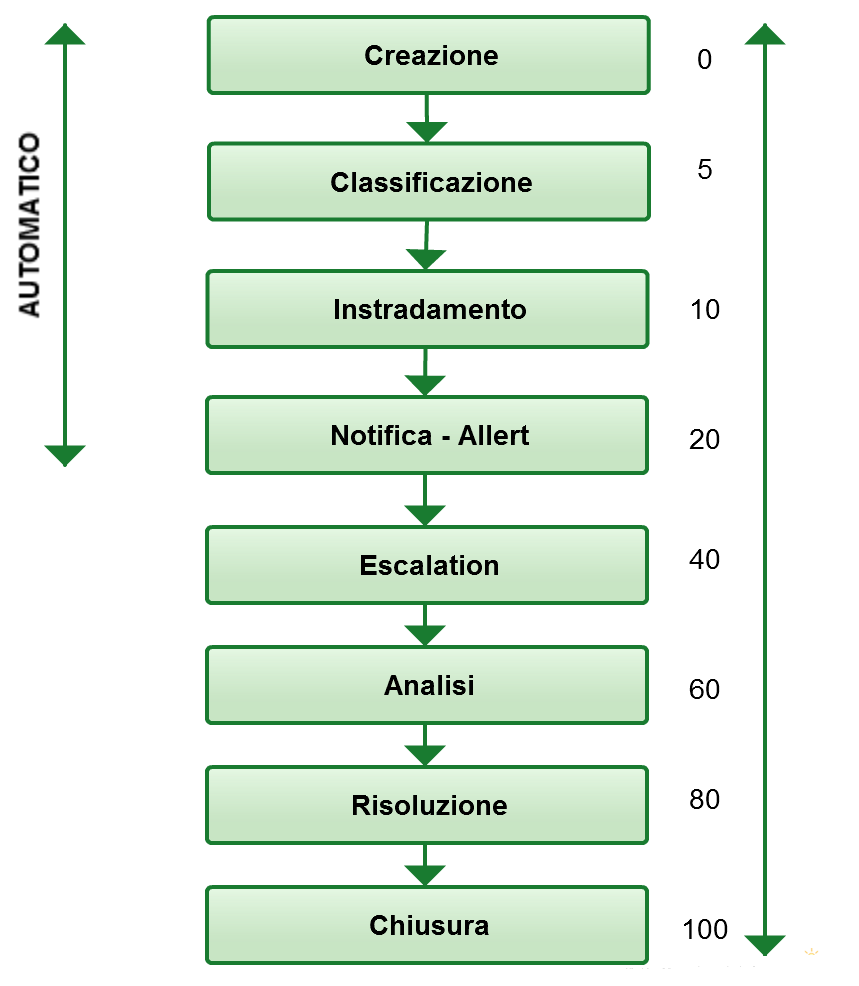
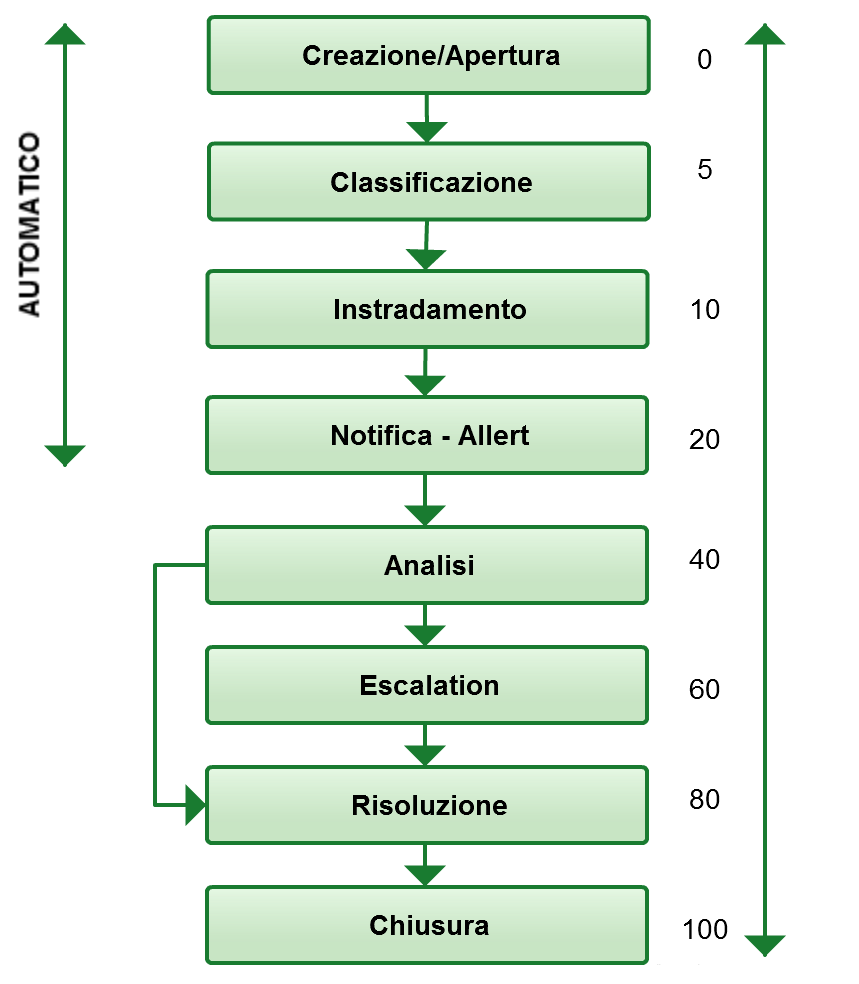
Processo Incident
Aggiunta la sezione che illustra il ciclo di vita di un ticket

diff --git a/Documenti/ServiceDesk/Chapters/Process/Sections/Incident.tex b/Documenti/ServiceDesk/Chapters/Process/Sections/Incident.tex
@@ -187,7 +187,7 @@ In Figura \ref{prc-incident-activities-img} è presente un diagramma di flusso c
 
 \begin{figure}[htbp]
 \centering
-\includegraphics[scale=0.2]{Images/Diagrams/IncidentManagement.png}
+\includegraphics[scale=0.25]{Images/Diagrams/IncidentManagement.png}
 \caption{Flusso di lavoro del processo di \ac{Incident-Management}}
 \label{prc-incident-activities-img}
 \end{figure}
@@ -494,3 +494,25 @@ Chiuso il & Data di chiusura e archiviazione della richiesta. & \attribute{data}
 \hline
 \end{longtable}
 \end{center}
+
+\subsection[Ciclo di vita di un ticket]{ciclo di vita di un ticket}
+\label{prc-incident-status}
+
+\begin{figure}[htbp]
+\centering
+\includegraphics[scale=0.4]{Images/Diagrams/Ticket_life_cycle.png}
+\caption{Ciclo di vita di un \english{ticket}}
+\label{prc-incident-status}
+\end{figure}
+
+Quando l'utente invia una richiesta di assistenza presso il \english{Service Desk} il \english{software} di supporto (vedi Sezione \ref{sd-tools}) \keyword{crea} un \english{ticket} che ora si trova trova nello stato \attribute{aperto}.
+
+Il \english{software} ora lo \keyword{classifica} in base ai contenuti e lo marca come \attribute{classificato}, successivamente lo \keyword{redirige} all'area del processo di \ac{Incident-Management} più consona al tipo di incidente, il \english{ticket} ora è nello stato \attribute{reindirizzato}.
+
+Eseguite le precedenti fasi, fatte in automatico dal \english{software} di supporto, esso viene \attribute{notificato} nel \english{monitor} dell'operatore del processo di \ac{Incident-Management} che comincerà a svolgere le attività legate al processo (vedi Sezione \ref{prc-incident-activities}).
+
+Nel momento in cui l'operatore, responsabile del \english{ticket} in oggetto, inizia ad analizzare le possibili cause dell'incidente esso passa nello stato di \attribute{analisi} e cui vi rimane finché una soluzione non viene trovata oppure è necessario eseguire \english{escalation} che porta il \english{ticket} nello stato \attribute{escalation}.
+
+Nel momento in cui una soluzione è disponibile esso passa nello stato di \attribute{risoluzione} finché essa viene applicata e non è confermata, dall'utente che ha aperto la richiesta, come risolutiva.
+
+Al termine, dopo la conferma dell'utente, il responsabile del \english{ticket} inizia la fase di chiusura dello stesso, tracciando il tutto, che lo porta nello stato di \attribute{chiuso}.
